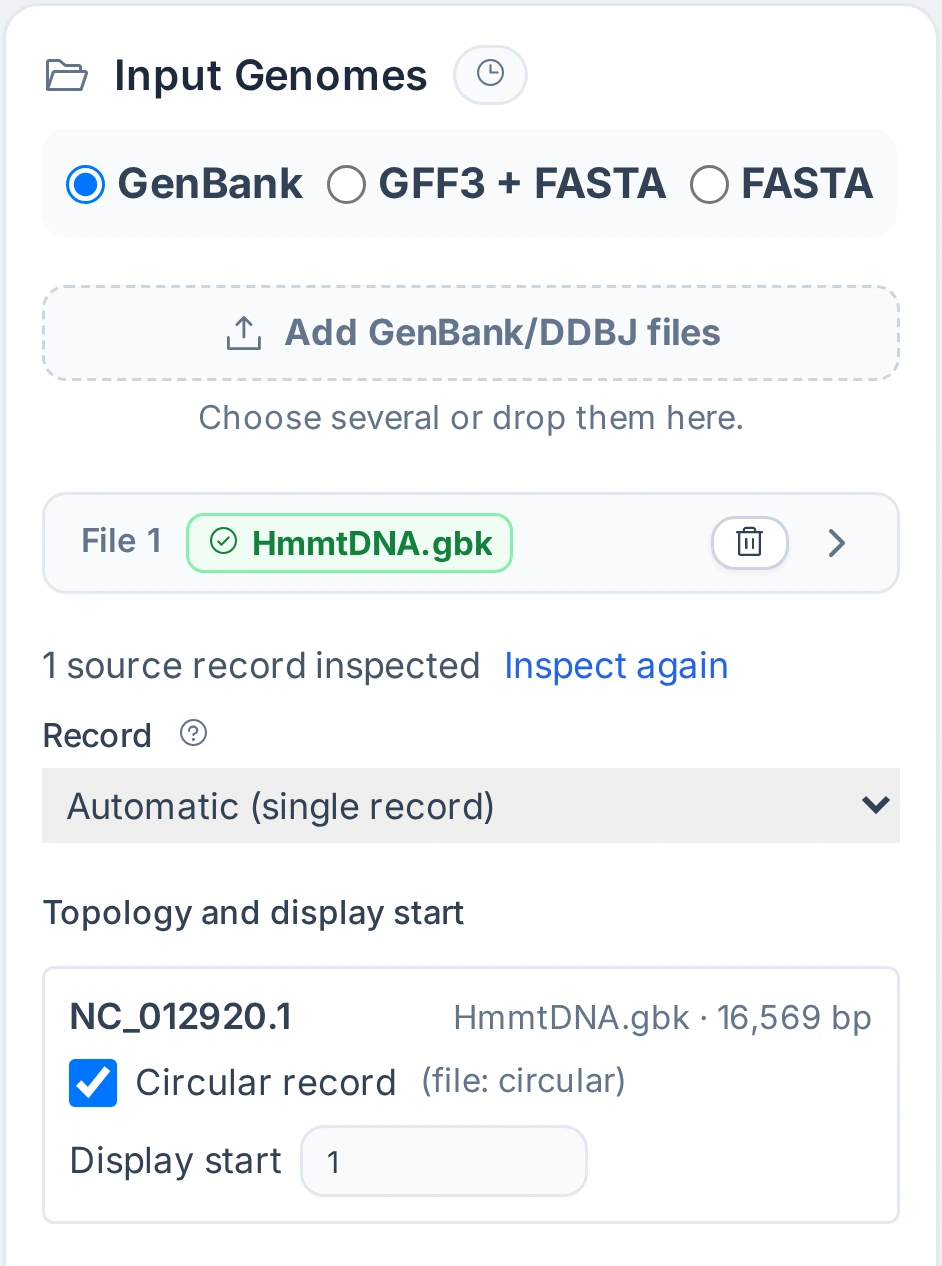
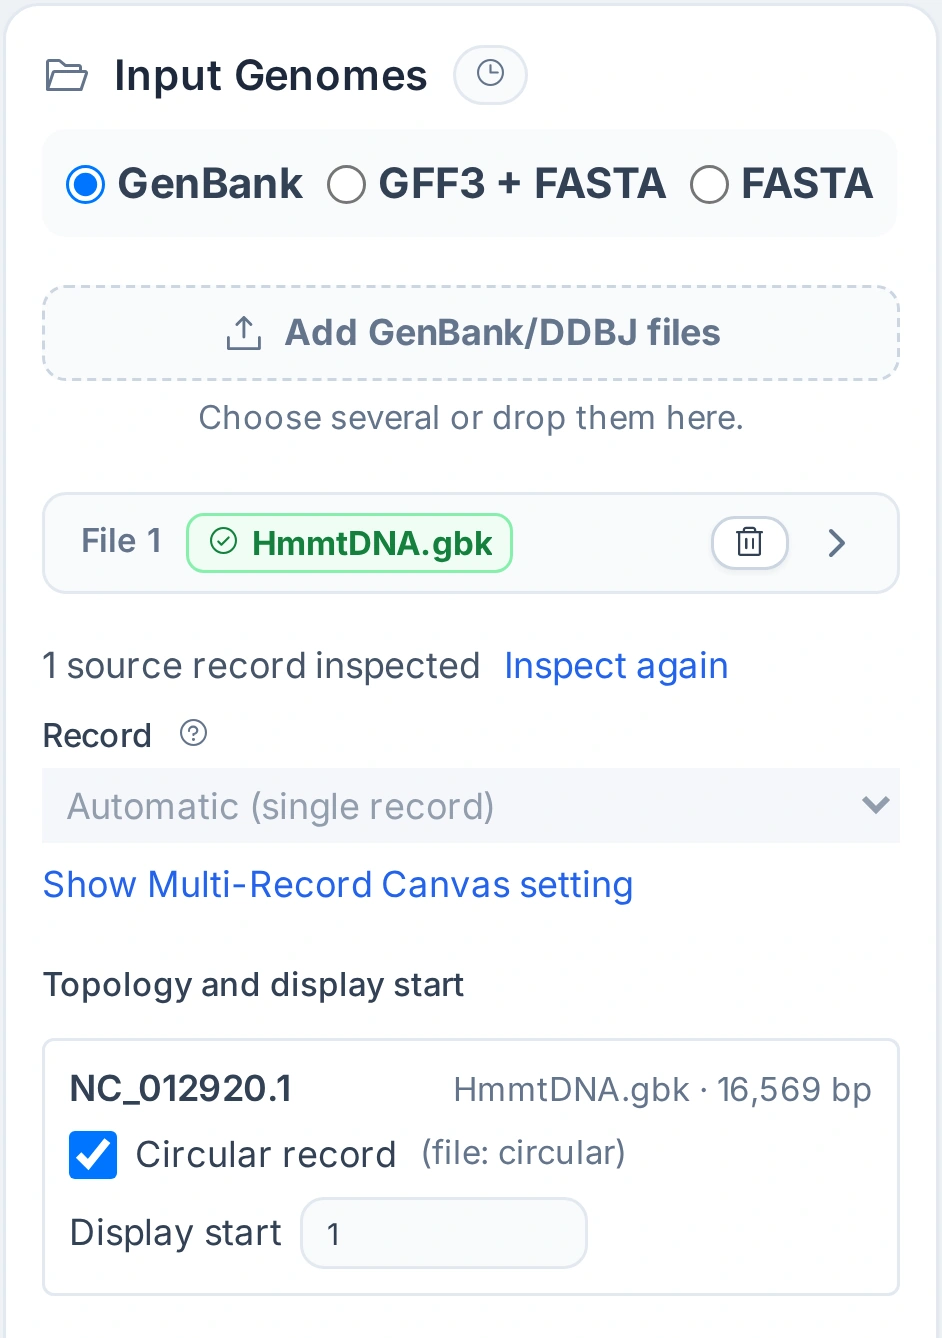
Hide the Session file chooser in Gallery captures; replay the basic upload step
A tutorial capture that loads a Session stands in for a reader who uploaded
the files, and that reader has no Session, so the capture tool now hides
the uploader's "Files in this Session" chooser in every such capture
(OV-3330), and --check refuses a tutorial step that names the chooser.
hepatoplasmataceae_orthogroup step 2 is recaptured without it.

The HmmtDNA_basic_circular upload crop replays through step 2, so it shows
the Web defaults of the upload step (Multi-Record Canvas on, as in
HmmtDNA_ATskew), not the finished Session's settings.

diff --git a/tools/capture_gallery_tutorial_screenshots.py b/tools/capture_gallery_tutorial_screenshots.py
@@ -78,6 +78,8 @@ CAPTURE_SELECT_CONTROL_SELECTOR = ".gbdraw-capture-select-control"
 # A drawn openSelect menu shows at most this many rows, scrolled so the
 # selected option is in view, like a native select list.
 OPEN_SELECT_MAX_VISIBLE_OPTIONS = 17
+SESSION_FILE_CHOOSER_SELECTOR = "[data-session-file-picker]"
+SESSION_FILE_CHOOSER_NAME = "Files in this Session"
 
 
 class QuietGalleryRequestHandler(http.server.SimpleHTTPRequestHandler):
@@ -470,6 +472,20 @@ def add_capture_contract_validation(
         )
 
 
+def add_step_text_validation(
+    result: ValidationResult,
+    context: TutorialContext,
+    step: dict[str, Any],
+) -> None:
+    """No step tells the reader to use the uploader's Session file chooser, which captures hide."""
+
+    if SESSION_FILE_CHOOSER_NAME.lower() in json.dumps(step, ensure_ascii=False).lower():
+        result.errors.append(
+            f"{context.label}: names {SESSION_FILE_CHOOSER_NAME}, which tutorial captures hide: "
+            "the reader uploads the files and has no Session."
+        )
+
+
 def add_step_replay_validation(
     result: ValidationResult,
     context: TutorialContext,
@@ -535,6 +551,7 @@ def validate_tutorial_media(
                 and not media_entries(step.get("media"))
             ):
                 result.errors.append(f"{context.label}: step is missing operations.")
+            add_step_text_validation(result, context, step)
             add_step_replay_validation(result, context, step)
             for entry in media_entries(step.get("media")):
                 add_media_validation(
@@ -1404,6 +1421,10 @@ def prepare_capture_page(page, base_url: str, sample: dict[str, Any], capture: d
                 "() => document.querySelectorAll('[data-linear-source-fold]')"
                 ".forEach((fold) => { fold.open = true; })"
             )
+            # The uploader offers the files of a loaded Session (**Files in this Session**). A
+            # tutorial reader uploaded the files and has no Session, so no capture shows it
+            # (OV-3330); `add_step_text_validation` keeps every step from naming it.
+            page.add_style_tag(content=f"{SESSION_FILE_CHOOSER_SELECTOR} {{ display: none !important; }}")
         replay_through = capture.get("replayThrough")
         if isinstance(replay_through, int):
             replay_tutorial_steps(page, sample, replay_through)

diff --git a/tests/test_gallery_capture_contracts.py b/tests/test_gallery_capture_contracts.py
@@ -1096,6 +1096,10 @@ class _PreparePage:
         if "data-linear-source-fold" in script:
             self.events.append("open Linear File cards")
 
+    def add_style_tag(self, content: str) -> None:
+        if "[data-session-file-picker]" in content and "display: none" in content:
+            self.events.append("hide Files in this Session")
+
 
 @pytest.mark.parametrize("fresh_page", [False, True])
 def test_session_capture_reads_the_records_as_the_readers_upload_did(
@@ -1121,7 +1125,15 @@ def test_session_capture_reads_the_records_as_the_readers_upload_did(
     if fresh_page:
         assert events == ["open page", "action"]
     else:
-        assert events == ["open page", "load session", "open Linear File cards", "replay", "read records", "action"]
+        assert events == [
+            "open page",
+            "load session",
+            "open Linear File cards",
+            "hide Files in this Session",
+            "replay",
+            "read records",
+            "action",
+        ]
 
 
 def test_webapp_crop_refuses_records_not_inspected() -> None:
@@ -1144,3 +1156,17 @@ def test_webapp_crop_refuses_records_not_inspected() -> None:
     script = unread.scripts[0]
     assert "circularRecordDiscoveryState" in script and "status === 'ready'" in script
     assert "linearRecordSelectorDisabled" in script
+
+
+def test_no_tutorial_step_names_the_session_file_chooser_that_captures_hide() -> None:
+    """A capture stands in for a reader who uploaded the files, who has no Session: it hides
+    **Files in this Session** (OV-3330), so no step may tell the reader to use it."""
+
+    result = ValidationResult(errors=[], warnings=[])
+    capture_tool.add_step_text_validation(
+        result, _manual_context(2), {"title": "Upload", "body": "Pick it in Files in this Session."}
+    )
+    capture_tool.add_step_text_validation(result, _manual_context(3), {"title": "Upload", "body": "Add the file."})
+
+    assert len(result.errors) == 1
+    assert "step 2" in result.errors[0] and "Files in this Session" in result.errors[0]

diff --git a/docs/internal/WEB_GALLERY_OPERATION_SCREENSHOT_REGISTER.md b/docs/internal/WEB_GALLERY_OPERATION_SCREENSHOT_REGISTER.md
@@ -642,16 +642,19 @@ Record "Not inspected"); a reader who uploads the file sees them read at once
 row). The capture tool now reads the shown drawing's records after it loads
 the Session and replays the steps, with the action that **Inspect source
 records** (a Linear card's **Inspect records**) runs, and it refuses a webapp
-crop whose shown drawing still has unread records. This section replaces the
+crop whose shown drawing still has unread records. A capture that loads a
+Session stands in for a reader who uploaded the files and has no Session, so it
+also hides the uploader's **Files in this Session** chooser (OV-3330), and
+`--check` refuses a step that names that chooser. This section replaces the
 capture state of the same media in the rows of the earlier sections; those
 rows stay as history.
 
 | Tutorial | Operation media | Decision | Required capture state | Status |
 | --- | --- | --- | --- | --- |
-| `HmmtDNA_basic_circular` | `manual-02-01-genbank-upload.webp` | Recapture; recipe changed | Session; records read; clip from the **Input Genomes** header to the **Topology and display start** row (the read opens the single-record panel, which this step does not use); 1400 px page; `visibleText` `1 source record inspected` | Recaptured at DSF 3, 942x1266; compared side by side |
+| `HmmtDNA_basic_circular` | `manual-02-01-genbank-upload.webp` | Recapture; recipe changed | Session replayed through step 2 (the Web defaults of the upload step: Multi-Record Canvas on, as in `HmmtDNA_ATskew`; the finished Session has it off); records read; clip from the **Input Genomes** header to the **Topology and display start** row (the read opens the single-record panel, which this step does not use); 1400 px page; `visibleText` `1 source record inspected` | Recaptured at DSF 3, 942x1338; compared side by side and with `HmmtDNA_ATskew` |
 | `HmmtDNA_ATskew`, `ecoli_o157_sakai_rings`, `hepatoplasma_scabrum_depth` | `manual-02-01-genbank-upload.webp` | Recapture; `visibleText` adds `1 source record inspected` (`HmmtDNA_ATskew`: 1400 px page) | Session replayed through step 2; records read | Recaptured at DSF 3, 942x1530; compared side by side |
 | `tobacco-chloroplast` | `manual-02-01-genbank-upload.webp` | Recapture; recipe now replays through step 2 | Session replayed through step 2 (the Web defaults of the upload step, not the finished figure's Record choice); records read; whole **Input Genomes** card | Recaptured at DSF 3, 1020x1770; compared side by side |
 | `Vnig_TUMSAT-TG-2018` | `manual-02-01-gbff-upload.webp` | Recapture; recipe repaired (OV-3328) | Session replayed through step 2; `assertAppState` reads the first Circular File card (`files.c_gb` no longer exists); clip from the **Input Genomes** header to **Source records**, which says `6 source records inspected · 6 of 6 records drawn`, as the step text says | Recaptured at DSF 3, 942x1014; compared side by side |
-| `hepatoplasmataceae_orthogroup` | `manual-02-01-upload-row-context.webp` | Recapture; recipe unchanged | Session; records read: **Record options** shows the AP027078.1 rotation row instead of **Inspect records**, and the Region Record select names the choice instead of "Not inspected" | Recaptured at DSF 3, 1422x2124; compared side by side |
+| `hepatoplasmataceae_orthogroup` | `manual-02-01-upload-row-context.webp` | Recapture; recipe unchanged | Session; records read: **Record options** shows the AP027078.1 rotation row instead of **Inspect records**, and the Region Record select names the choice instead of "Not inspected"; no **Files in this Session** chooser | Recaptured at DSF 3, 1422x2040; compared side by side |
 | `lambda_basic_linear` | `manual-02-01-genbank-upload.webp` | Keep; recipe repaired (OV-3329) | The capture no longer replaces the loaded file with a renamed copy, a replacement the reader never makes (the Session's file already shows `NC_001416.gb`) | Recaptured; the crop shows no record state and matched the committed image, so the committed bytes stay |
 | `hepatoplasmataceae_collinear`, `majanivirus_orthogroup`, `BGC0000708-BGC0000713` (steps 2, 3), `vibrio-harveyi-group-collinear` (steps 2, 3) | upload-step crops | Keep | Already read (replay) or no record state in the crop; a recapture differs only by later changes on dev (the uploader's **Files in this Session** chooser, the Linear window controls), which the full Gallery refresh takes | Recaptured and reverted |
